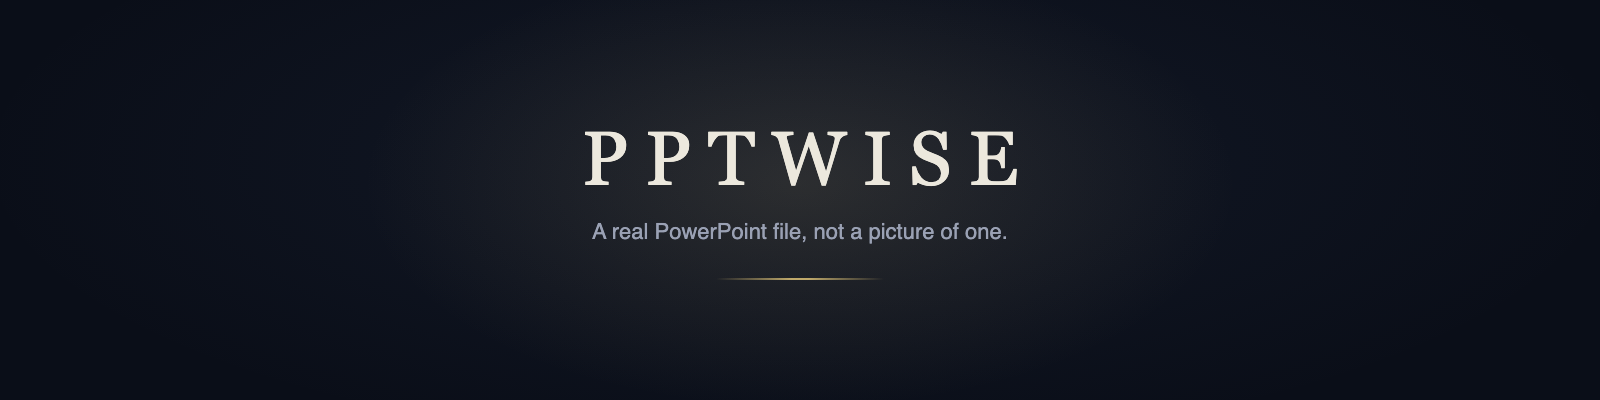
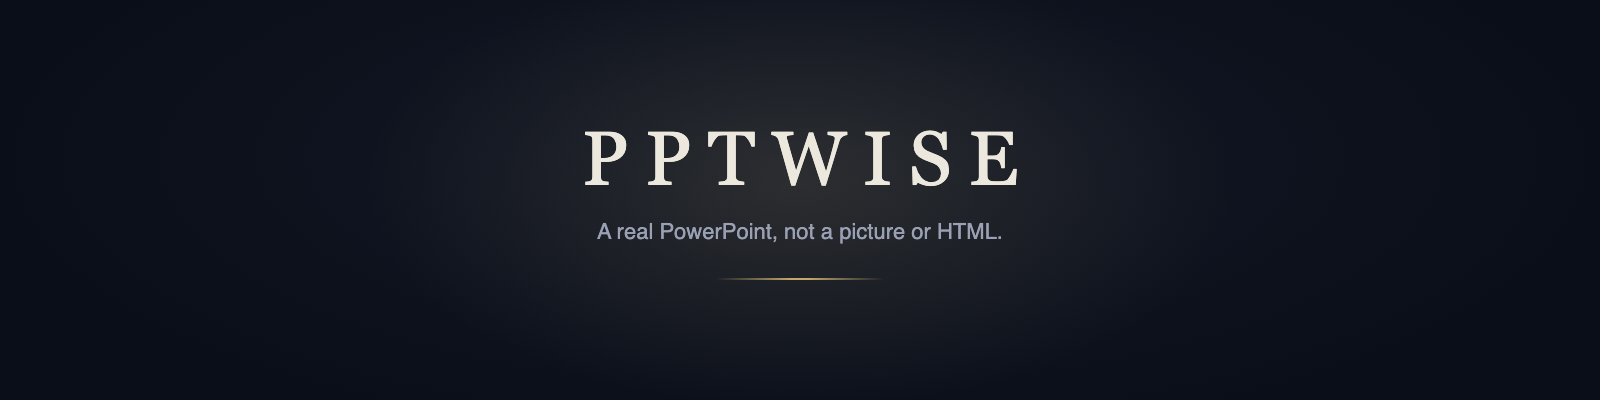
docs: 更新官网标语与宣传图

Changed region(s): [[0.375, 0.54, 0.625, 0.6]]

diff --git a/README.md b/README.md
@@ -1,8 +1,8 @@
-<p align="center"><img src="assets/banner.png" alt="pptwise — a real PowerPoint file, not a picture of one" width="100%"></p>
+<p align="center"><img src="assets/banner.png" alt="pptwise: A real PowerPoint, not a picture or HTML." width="100%"></p>
 
 <h1 align="center">pptwise</h1>
 
-<p align="center"><b>A real PowerPoint file. Not a picture of one.</b></p>
+<p align="center"><b>A real PowerPoint, not a picture or HTML.</b></p>
 
 <p align="center">🥇 <b>The FIRST deck-generation plugin for DeepSeek Harness (dsh)</b> 🥇</p>
 

diff --git a/README.zh-CN.md b/README.zh-CN.md
@@ -1,8 +1,8 @@
-<p align="center"><img src="assets/banner.png" alt="pptwise：真正的 PPT，不是一张图" width="100%"></p>
+<p align="center"><img src="assets/banner.png" alt="pptwise：真正的 PPT，不是图片也不是 HTML" width="100%"></p>
 
 <h1 align="center">pptwise</h1>
 
-<p align="center"><b>真正的 PPT，不是一张图。</b></p>
+<p align="center"><b>真正的 PPT，不是图片也不是 HTML</b></p>
 
 <p align="center">🥇 <b>全网第一个 DeepSeek Harness PPT 生成插件</b> 🥇</p>
 
